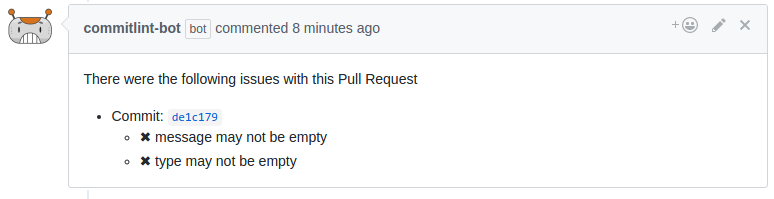
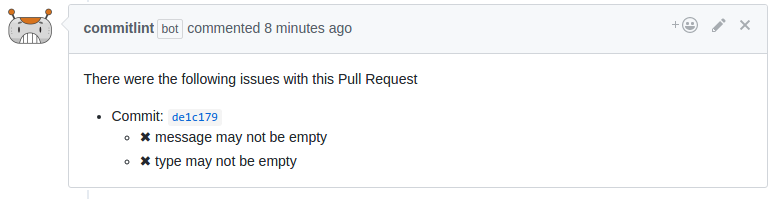
chore: remove "bot" suffix
Probot strongly recommend against having the name bot in the title of a GitHub App. One of the reasons for this is that your app is already labeled a bot by GitHub, so if it comments, it will show up as commitlint-bot[bot].

Changed region(s): [[0.186, 0.0905, 0.4961, 0.2111]]

diff --git a/lib/lint.js b/lib/lint.js
@@ -18,7 +18,7 @@ const commitlint = async ({ github, payload }) => {
 		sha: payload.pull_request.head.sha,
 		repo: name,
 		owner: owner.login,
-		context: 'commitlint-bot'
+		context: 'commitlint'
 	}
 
 	// Pending

diff --git a/test/bot.test.js b/test/bot.test.js
@@ -12,7 +12,7 @@ const baseStatus = {
 	sha: '123456789',
 	repo: 'repo',
 	owner: 'user',
-	context: 'commitlint-bot'
+	context: 'commitlint'
 }
 
 describe('commitlint-bot', () => {

diff --git a/README.md b/README.md
@@ -9,7 +9,7 @@
 
 
 <p align="center">
-  <img src="docs/robot.svg" width="256" alt="commitlint-bot logo" />
+  <img src="docs/robot.svg" width="256" alt="commitlint logo" />
 </p>
 
 > Built with [probot](https://github.com/probot/probot) framework
@@ -19,11 +19,11 @@ and sets an appropriate status check.
 
 ## Usage
 
-1. Browse to [GitHub Apps - commitlint-bot][apps]
+1. Browse to [GitHub Apps - commitlint][apps]
 2. Accept the permissions
 3. Allow access to repositories
 
-On the next pull request, a status check from `commitlint-bot` will appear:
+On the next pull request, a status check from `commitlint` will appear:
 
 ![status-check-screenshot][]
 
@@ -32,11 +32,11 @@ Problem details will be reported as a comment like this:
 ![status-comment-screenshot][]
 
 
-For best results, enable branch protection (in the repository's settings) and require the `commitlint-bot` status check to pass before merging:
+For best results, enable branch protection (in the repository's settings) and require the `commitlint` status check to pass before merging:
 
 ![branch-protection-screenshot][]
 
-[apps]: https://github.com/apps/commitlint-bot
+[apps]: https://github.com/apps/commitlint
 [status-check-screenshot]: docs/status.png
 [status-comment-screenshot]: docs/comment.png
 [branch-protection-screenshot]: docs/setting.png
